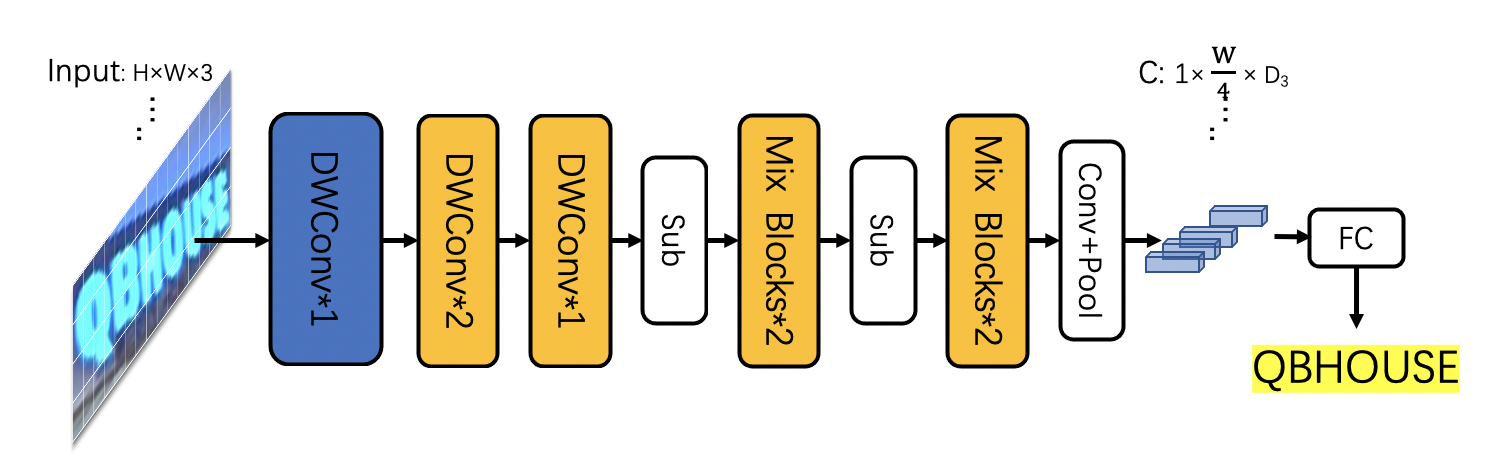
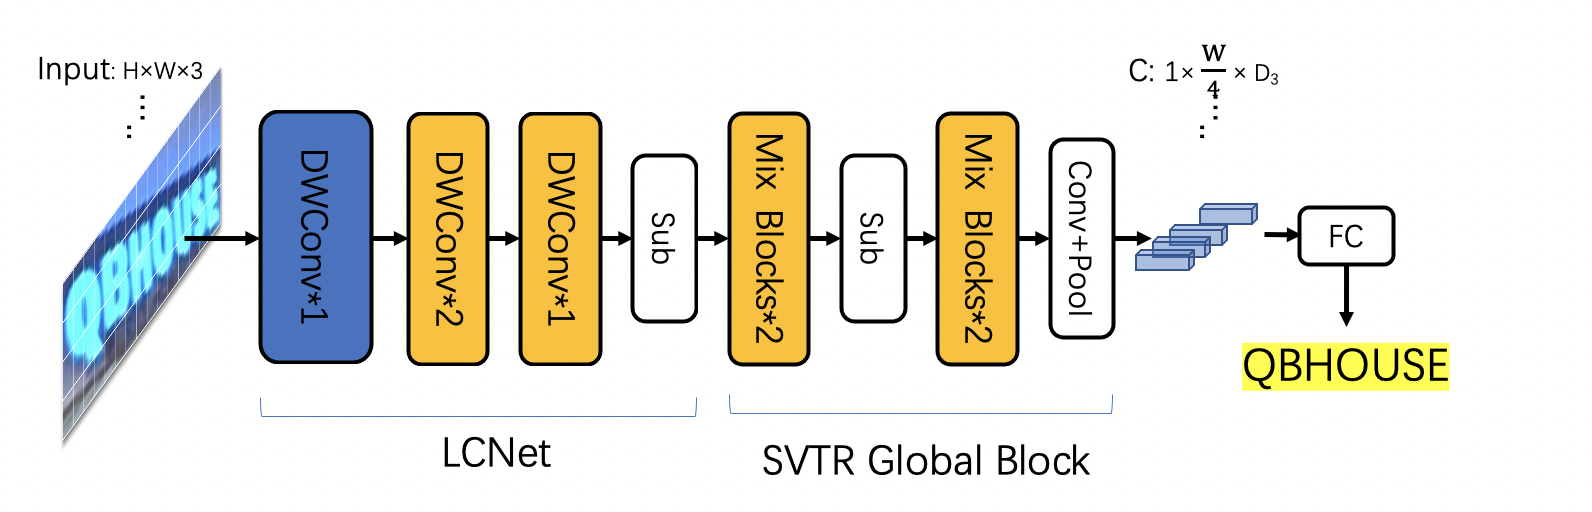
update introduction

diff --git a/doc/doc_ch/ppocr_introduction.md b/doc/doc_ch/ppocr_introduction.md
@@ -54,56 +54,61 @@ PP-OCRv3文本检测从网络结构、蒸馏训练策略两个方向做了进一
 
 - PP-OCRv3 文本识别
 
-[SVTR](todo:add_link) 证明了强大的单视觉模型即可高效准确完成文本识别任务，在中英文数据上均有优秀的表现。基于SVTR的工作，PP-OCRv3首先验证了SVTR_tiny结构在中文数据上的效果。
-实验发现SVTR_tiny在中文测试集上acc可以提升10.7%。
+[SVTR](https://arxiv.org/abs/2205.00159) 证明了强大的单视觉模型（无需序列模型）即可高效准确完成文本识别任务，在中英文数据上均有优秀的表现。经过实验验证，SVTR_tiny在自建的中文数据集上，识别精度可以提升10.7%，网络结构如下所示：
 
 <img src="../ppocr_v3/svtr_tiny.jpg" width=800>
 
-非常遗憾，由于 MKLDNN 加速库支持的模型结构有限，SVTR 在CPU+MKLDNN上相比PP-OCRv2慢了10倍。
+由于 MKLDNN 加速库支持的模型结构有限，SVTR 在CPU+MKLDNN上相比PP-OCRv2慢了10倍。
 
-PP-OCRv3 期望提升模型精度的同时不带来额外的推理耗时，以加速预测为目的，分析得到主要耗时部分在Transformer Block，并对 SVTR_tiny 的结构进行了一系列优化:
+PP-OCRv3 期望在提升模型精度的同时，不带来额外的推理耗时。通过分析发现，SVTR_tiny结构的主要耗时模块为Transformer Block，因此我们对 SVTR_tiny 的结构进行了一系列优化，详细速度数据请参考下方消融实验表格:
 
-1. 将SVTR网络前半部分替换为LCNet的前三个stage，保留4个 SVTR 的 Global attenntion，精度为76%，速度基本不变。
+1. 将SVTR网络前半部分替换为PP-LCNet的前三个stage，保留4个 SVTR 的 Global Attenntion Block，精度为76%，加速69%，网络结构如下所示：
 <img src="../ppocr_v3/svtr_g4.png" width=800>
-2. 将4个Global attention 减小到2个，精度为72.9%，速度提升3倍。
+2. 将4个 Global Attenntion Block 减小到2个，精度为72.9%，加速69%，网络结构如下所示：
 <img src="../ppocr_v3/svtr_g2.png" width=800>
-3. attention 的预测速度与输入其feature的shape有关，因此移动Global attention至avg_pool后，精度下降为71.9%，速度超越 CNN-base 的PP-OCRv2 27%。
+3. 实验发现 Global Attention 的预测速度与输入其特征的shape有关，因此后移Global Attenntion Block的位置到池化层之后，精度下降为71.9%，速度超越 CNN-base 的PP-OCRv2 22%，网络结构如下所示：
 <img src="../ppocr_v3/ppocr_v3.png" width=800>
 
-为了提升模型精度同时不引入额外推理成本，PP-OCRv3参考GTC策略，使用Attention监督CTC训练，预测时完全去除Attention模块，在推理阶段不增加任何耗时, 精度提升3.8%。
+为了提升模型精度同时不引入额外推理成本，PP-OCRv3参考GTC策略，使用Attention监督CTC训练，预测时完全去除Attention模块，在推理阶段不增加任何耗时, 精度提升3.8%，训练流程如下所示：
 <img src="../ppocr_v3/GTC.png" width=800>
 
-训练策略方面参考 [SSL](https://github.com/ku21fan/STR-Fewer-Labels) 设计了文本方向任务，训练了适用于文本识别的预训练模型，加速模型收敛过程，精度提升了0.6%; 使用UDML蒸馏策略，进一步提升精度1.5%。
+在训练策略方面，PP-OCRv3参考 [SSL](https://github.com/ku21fan/STR-Fewer-Labels) 设计了文本方向任务，训练了适用于文本识别的预训练模型，加速模型收敛过程，精度提升了0.6%; 使用UDML蒸馏策略，进一步提升精度1.5%，训练流程所示：
 
 <img src="../ppocr_v3/SSL.png" width="300"> <img src="../ppocr_v3/UDML.png" width="500">
 
 
-数据增强方面基于 [ConCLR](https://www.cse.cuhk.edu.hk/~byu/papers/C139-AAAI2022-ConCLR.pdf) 中的ConAug方法，设计了 RecConAug 数据增强方法，增强数据多样性，精度提升0.5%，
+数据增强方面：
+
+1. 基于 [ConCLR](https://www.cse.cuhk.edu.hk/~byu/papers/C139-AAAI2022-ConCLR.pdf) 中的ConAug方法，设计了 RecConAug 数据增强方法，增强数据多样性，精度提升0.5%，增强可视化效果如下所示：
 <img src="../ppocr_v3/recconaug.png" width=800>
 
+2. 使用训练好的 SVTR_large 预测 120W 的 lsvt 无标注数据，取出其中得分大于0.95的数据，共得到81W识别数据加入到PP-OCRv3的训练数据中，精度提升1%。
 
 总体来讲PP-OCRv3识别从网络结构、训练策略、数据增强三个方向做了进一步优化:
-- 网络结构上：结合 LCNet 与[SVTR](todo:add_link) 的 Transformer block，去除LSTM特征解码模块，并行处理序列特征，兼顾精度与预测速度；参考 [GTC](https://arxiv.org/pdf/2002.01276.pdf) 策略，使用注意力机制模块指导CTC训练，定位和识别字符，提升不规则文本的识别精度。
+
+- 网络结构上：考虑[SVTR](https://arxiv.org/abs/2205.00159) 在中英文效果上的优越性，采用SVTR_tiny作为base，选取Global Attention Block和卷积组合提取特征，并将Global Attention Block位置后移进行加速; 参考 [GTC](https://arxiv.org/pdf/2002.01276.pdf) 策略，使用注意力机制模块指导CTC训练，定位和识别字符，提升不规则文本的识别精度。
 - 训练策略上：参考 [SSL](https://github.com/ku21fan/STR-Fewer-Labels) 设计了方向分类前序任务，获取更优预训练模型，加速模型收敛过程，提升精度; 使用UDML蒸馏策略、监督attention、ctc两个分支得到更优模型。
-- 数据增强上：基于 [ConCLR](https://www.cse.cuhk.edu.hk/~byu/papers/C139-AAAI2022-ConCLR.pdf) 中的ConAug方法，改进得到 RecConAug 数据增广方法，支持随机结合任意多张图片，提升训练数据的上下文信息丰富度，增强模型鲁棒性。
-基于上述策略，PP-OCRv3识别模型相比上一版本，速度基本无损，精度进一步提升4.5%。 具体消融实验：
+- 数据增强上：基于 [ConCLR](https://www.cse.cuhk.edu.hk/~byu/papers/C139-AAAI2022-ConCLR.pdf) 中的ConAug方法，改进得到 RecConAug 数据增广方法，支持随机结合任意多张图片，提升训练数据的上下文信息丰富度，增强模型鲁棒性；使用 SVTR_large 预测无标签数据，向训练集中补充81w高质量真实数据。
+
+基于上述策略，PP-OCRv3识别模型相比PP-OCRv2，在速度可比的情况下，精度进一步提升4.5%。 体消融实验如下所示：
 
 实验细节：
 
-| id | 策略 |  模型大小 | 精度 |
-|-----|-----|--------|----|
-| 01 | PP-OCRv2 | 8M | 69.3% |
-| 02 | SVTR_tiny | 19M | 80.1% |
-| 03 | LCNet_SVTR_G6 | 8.2M | 76% |
-| 04 | LCNet_SVTR_G1 | - | 72.98% |
-| 05 | PP-OCRv3 | 12M | 71.9% |
-| 06 | + GTC | 12M | 75.8% |
-| 07 | + RecConAug | 12M | 76.3% |
-| 08 | + SSL pretrain | 12M | 76.9% |
-| 09 | + UDML | 12M | 78.4% |
-| 10 | + unlabeled data | 12M | 79.4% |
+| id | 策略 |  模型大小 | 精度 | 速度（cpu + mkldnn)|
+|-----|-----|--------|----| --- |
+| 01 | PP-OCRv2 | 8M | 69.3% | 8.54ms |
+| 02 | SVTR_tiny | 21M | 80.1% | 97ms |
+| 03 | LCNet_SVTR_G6 | 9.2M | 76% | 30ms |
+| 04 | LCNet_SVTR_G1 | 13M | 72.98% | 9.37ms |
+| 05 | PP-OCRv3 | 12M | 71.9% | 6.6ms |
+| 06 | + large input_shape | 12M | 73.98% | 7.6ms |
+| 06 | + GTC | 12M | 75.8% | 7.6ms |
+| 07 | + RecConAug | 12M | 76.3% | 7.6ms |
+| 08 | + SSL pretrain | 12M | 76.9% | 7.6ms |
+| 09 | + UDML | 12M | 78.4% | 7.6ms |
+| 10 | + unlabeled data | 12M | 79.4% | 7.6ms |
 
-
+注： 测试速度时，输入图片尺寸均为(3,32,320)
 
 <a name="2"></a>
 ## 2. 特性